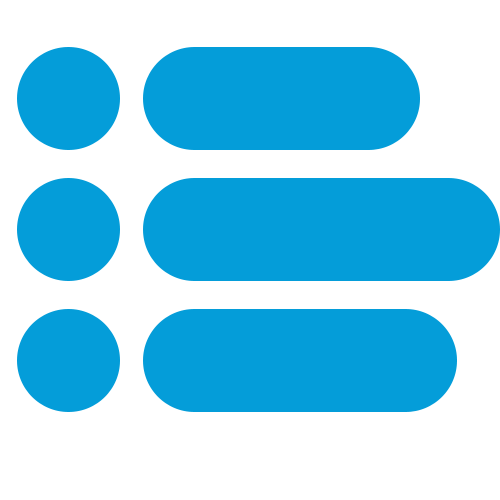
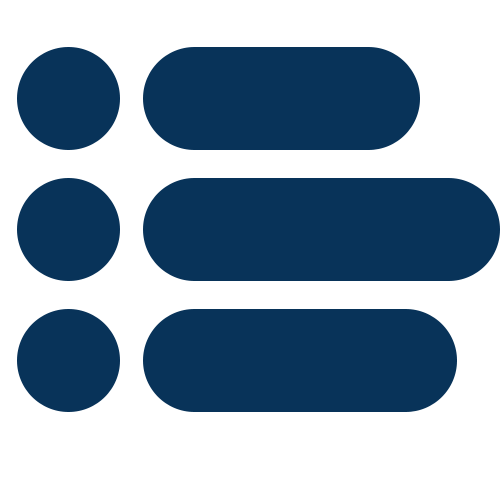
Menu lateral da pagina Home finalizado

diff --git a/src/main/webapp/home.css b/src/main/webapp/home.css
@@ -1,21 +1,81 @@
 html,body{
     width: 100%;
     height: 100%;
+
 }
 body{
     margin: 0;
 }
 .UlMenu{
     list-style: none;
+    padding: 0;
 }
 .buttonMenu img{
     width: 60px;
+    padding: 20px;
+
+}
+.circle{
+    width: 100px;
+    height: 99px;
+    background-color: white;
+    align-items: center;
+    display: block;
+    position: absolute;
+    border-radius: 100%;
+    z-index: -1;
 }
 .checkMenu{
     display: none;
+}
+.checkMenu:checked ~ .retangleMenu{
+    transform: translateX(350px);
+}
+.checkMenu:checked ~ .icone{
+    transform: translateX(275px);
 }
 .retangleMenu{
     background-color: #049DD9;
     width: 350px;
     height: 100%;
+    left: -350px;
+    position: absolute;
+    transition-duration: 0.5s;
+
+
+}
+.blocksLinks{
+    right: 50px;
+    display: block;
+    padding: 30px 15px;
+    color: white;
+    text-decoration: none;
+    font: bold 14pt Arial;
+
+}
+.blocksLinks:hover{
+    background-color: #1AB6D9;
+}
+.icone{
+    margin-top: 75px;
+    padding: 30px;
+    position: absolute;
+    z-index: 1;
+    transition: 0.5s;
+}
+.UlMenu{
+
+    position: absolute;
+    width: 100%;
+}
+.title {
+    margin-top: 8px;
+    margin-bottom: 45px;
+    text-align: center;
+    text-transform: uppercase;
+    font-family: 'Nunito', sans-serif;
+    font-size: 35px;
+    font-weight: bold;
+    text-shadow: 1px 1px 5px  rgba(0, 0, 0, 0.548);
+    color: #083359;
 }

diff --git a/src/main/webapp/home.html b/src/main/webapp/home.html
@@ -11,14 +11,19 @@
 
 <body>
     <input type="checkbox" class='checkMenu' id="menu">
-    <label for="menu" class='menu'>
-        <div class="buttonMenu">
-            <img src="Background/IconMenu.png" alt="IconMenu">
+    <label for="menu" class='icone'>
+        <div class='circle'></div>
+            <div class="buttonMenu">
+                <img src="Background/IconMenu.png" alt="IconMenu">
+            </div>
         </div>
     </label>
 
     <nav class='retangleMenu'>
+
+        </label>
         <ul class='UlMenu'>
+            <h2 class='title'>Ticket Management</h2>
             <li class='intesMenu'><a href="" class='blocksLinks'>HOME</a></li>
             <li class='intesMenu'><a href="" class='blocksLinks'>CREATE TICKETS</a></li>
             <li class='intesMenu'><a href="" class='blocksLinks'>MY TICKETS</a></li>
